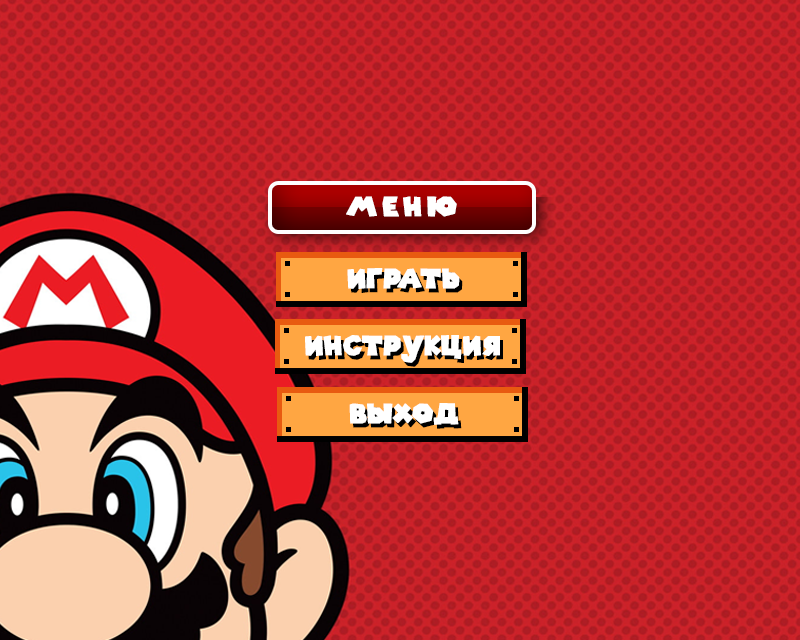
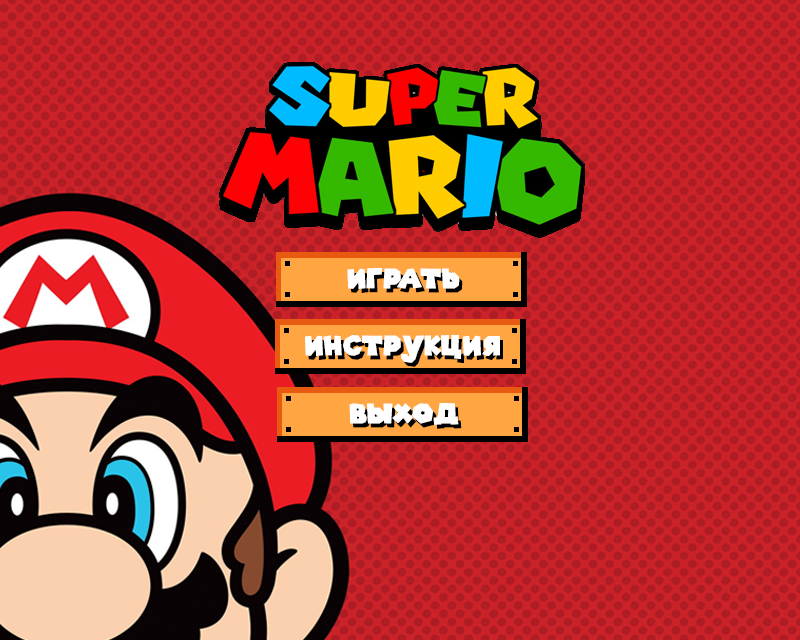
complete all

Changed region(s): [[0.25, 0.0938, 0.75, 0.4062]]

diff --git a/menu.py b/menu.py
@@ -5,6 +5,7 @@ from main_of_pygame_part import main
 WIN_WIDTH = 800  # Ширина создаваемого окна
 WIN_HEIGHT = 640  # Высота
 DISPLAY = (WIN_WIDTH, WIN_HEIGHT)
+pygame.init()  # Инициация PyGame, обязательная строчка
 
 
 
@@ -14,7 +15,7 @@ def menu(need_anim):
     pygame.display.set_caption("Super Mario Boy")  # Название
     bg = pygame.image.load('Design/menu/menu_bg.png')  # Фоновое изображение
 
-    menu_im = pygame.image.load('Design/menu/menu_lbl.png')
+    menu_im = pygame.image.load('Design/menu/logo.png')
 
     start_button = pygame.image.load('Design/menu/start_menu_button.png') # Создание кнопок для меню
     start_button_rect = start_button.get_rect(topleft=(276, 251))
@@ -47,20 +48,86 @@ def menu(need_anim):
 
     if need_anim:
         while True:
-            menu_b_y = 0
-            while menu_b_y != 181:
-                clock.tick(900)
+            menu_b_y = -176
+            while menu_b_y != 62:
+                clock.tick(1500)
                 screen.fill('#cb2229')
-                screen.blit(menu_im, (268, menu_b_y))
+                screen.blit(menu_im, (218, menu_b_y))
+                menu_b_y += 0.5
+                pygame.display.update()
+
+            while menu_b_y != 10:
+                clock.tick(200)
+                screen.fill('#cb2229')
+                screen.blit(menu_im, (218, menu_b_y))
+                menu_b_y -= 1
+                pygame.display.update()
+            while menu_b_y != 62:
+                clock.tick(200)
+                screen.fill('#cb2229')
+                screen.blit(menu_im, (218, menu_b_y))
                 menu_b_y += 1
                 pygame.display.update()
+
+            while menu_b_y != 20:
+                clock.tick(200)
+                screen.fill('#cb2229')
+                screen.blit(menu_im, (218, menu_b_y))
+                menu_b_y -= 1
+                pygame.display.update()
+            while menu_b_y != 62:
+                clock.tick(200)
+                screen.fill('#cb2229')
+                screen.blit(menu_im, (218, menu_b_y))
+                menu_b_y += 1
+                pygame.display.update()
+
+            while menu_b_y != 30:
+                clock.tick(200)
+                screen.fill('#cb2229')
+                screen.blit(menu_im, (218, menu_b_y))
+                menu_b_y -= 1
+                pygame.display.update()
+            while menu_b_y != 62:
+                clock.tick(200)
+                screen.fill('#cb2229')
+                screen.blit(menu_im, (218, menu_b_y))
+                menu_b_y += 1
+                pygame.display.update()
+
+            while menu_b_y != 40:
+                clock.tick(200)
+                screen.fill('#cb2229')
+                screen.blit(menu_im, (218, menu_b_y))
+                menu_b_y -= 1
+                pygame.display.update()
+            while menu_b_y != 62:
+                clock.tick(200)
+                screen.fill('#cb2229')
+                screen.blit(menu_im, (218, menu_b_y))
+                menu_b_y += 1
+                pygame.display.update()
+
+            while menu_b_y != 50:
+                clock.tick(200)
+                screen.fill('#cb2229')
+                screen.blit(menu_im, (218, menu_b_y))
+                menu_b_y -= 1
+                pygame.display.update()
+            while menu_b_y != 62:
+                clock.tick(200)
+                screen.fill('#cb2229')
+                screen.blit(menu_im, (218, menu_b_y))
+                menu_b_y += 1
+                pygame.display.update()
+
 
 
             start_b_x = -251
             while start_b_x != 276:
                 clock.tick(1100)
                 screen.fill('#cb2229')
-                screen.blit(menu_im, (268, 181))
+                screen.blit(menu_im, (218, 62))
                 screen.blit(start_button, (start_b_x, 251))
                 start_b_x += 1
                 pygame.display.update()
@@ -70,7 +137,7 @@ def menu(need_anim):
             while inst_b_x != 276:
                 clock.tick(1100)
                 screen.fill('#cb2229')
-                screen.blit(menu_im, (268, 181))
+                screen.blit(menu_im, (218, 62))
                 screen.blit(start_button, ((276, 251)))
                 screen.blit(instruction_button, (inst_b_x, 319))
                 inst_b_x -= 1
@@ -80,19 +147,20 @@ def menu(need_anim):
             while start_b_x != 276:
                 clock.tick(1100)
                 screen.fill('#cb2229')
-                screen.blit(menu_im, (268, 181))
+                screen.blit(menu_im, (218, 62))
                 screen.blit(start_button, ((276, 251)))
                 screen.blit(instruction_button, ((276, 319)))
-                screen.blit(start_button, (start_b_x, 387))
+                screen.blit(exit_button, (start_b_x, 387))
                 start_b_x += 1
                 pygame.display.update()
             break
 
 
 
+
     while not chose_level and not instructions:
         screen.blit(bg, (0, 0))
-        screen.blit(menu_im, (268, 181))
+        screen.blit(menu_im, (218, 62))
         screen.blit(start_button, start_button_rect)
         screen.blit(instruction_button, instruction_button_rect)
         screen.blit(exit_button, exit_button_rect)
@@ -125,10 +193,13 @@ def menu(need_anim):
             if e.type == pygame.constants.QUIT:
                 raise SystemExit
             if level_1_rect.collidepoint(mouse) and e.type == pygame.MOUSEBUTTONDOWN:
-                main(1)
+                if main(1) == 2:
+                    if main(2) == 2:
+                        main(3)
 
             if level_2_rect.collidepoint(mouse) and e.type == pygame.MOUSEBUTTONDOWN:
-                main(2)
+                if main(2) == 2:
+                    main(3)
             if level_3_rect.collidepoint(mouse) and e.type == pygame.MOUSEBUTTONDOWN:
                 main(3)
 

diff --git a/main_of_pygame_part.py b/main_of_pygame_part.py
@@ -14,6 +14,7 @@ WIN_HEIGHT = 640  # Высота
 DISPLAY = (WIN_WIDTH, WIN_HEIGHT)  # Группируем ширину и высоту в одну переменную
 
 FILE_DIR = os.path.dirname(__file__)
+pygame.init()  # Инициация PyGame, обязательная строчка
 
 
 class Camera(object):
@@ -92,19 +93,24 @@ def main(num):
     pygame.mixer.music.load("saundtrack.mp3")
     pygame.mixer.music.play(-1)
 
-    button = pygame.image.load('Design/pause\pause.png')
+    button = pygame.image.load('Design/pause/pause.png')
     button_rect = button.get_rect(topright=(800, 0))
 
     left = right = False  # по умолчанию - стоим
     up = False
     running = False
 
-    label = pygame.font.Font('font.otf', 40)
+
+    win_m_label = pygame.image.load('Design/result/victory/win_w_go_to_menu.png')
+    go_to_menu_button = pygame.image.load('Design/result/victory/go_to_menu_button.png')
+    go_to_menu_button_rect = go_to_menu_button.get_rect(topleft=(329, 506))
+
+    win_nl_label = pygame.image.load('Design/result/victory/win_w_go_to_nextlvl.png')
+    go_to_nextlvl_button = pygame.image.load('Design/result/victory/next_lvl_button.png')
+    go_to_nextlvl_button_rect = go_to_nextlvl_button.get_rect(topleft=(143, 499))
 
 
-
-    win_label = pygame.image.load('Design/result/victory.png')
-    loose_label = pygame.image.load('Design/result/loose_img.png')
+    loose_label = pygame.image.load('Design/result/loose/loose_img.png')
 
     continue_button = pygame.image.load('Design/pause/continue.png')
     continue_button_rect = continue_button.get_rect(topleft=(296, 255))
@@ -112,12 +118,9 @@ def main(num):
     go_back = pygame.image.load('Design/pause/go_back.png')
     go_back_rect = go_back.get_rect(topleft=(296, 322))
 
-    go_back_button = label.render('Меню', False, (255, 255, 255))
-    go_back_button_rect = go_back_button.get_rect(topleft=(330, 400))
-
     pause_im = pygame.image.load('Design/pause/pause_menu_bg.png')
 
-    restart_label = pygame.image.load('Design/result/restart_button.png')
+    restart_label = pygame.image.load('Design/result/loose/restart_button.png')
     restart_label_rect = restart_label.get_rect(topleft=(222, 520))
 
     hero = Player(playerX, playerY)  # создаем героя по (x,y) координатам
@@ -231,11 +234,26 @@ def main(num):
                     if e.type == QUIT:
                         raise SystemExit
         else:
-            pygame.mixer.music.pause()
-            screen.blit(win_label, (0, 0))
-            for e in pygame.event.get():  # Обрабатываем события
-                if e.type == QUIT:
-                    raise SystemExit
+            if num == 3:
+                pygame.mixer.music.pause()
+                screen.blit(win_m_label, (0, 0))
+                screen.blit(go_to_menu_button, go_to_menu_button_rect)
+                mouse = pygame.mouse.get_pos()
+                for e in pygame.event.get():  # Обрабатываем события
+                    if e.type == QUIT:
+                        raise SystemExit
+                    if e.type == MOUSEBUTTONDOWN and go_to_menu_button_rect.collidepoint(mouse):
+                        return 1
+            else:
+                pygame.mixer.music.pause()
+                screen.blit(win_nl_label, (0, 0))
+                screen.blit(go_to_nextlvl_button, go_to_nextlvl_button_rect)
+                mouse = pygame.mouse.get_pos()
+                for e in pygame.event.get():  # Обрабатываем события
+                    if e.type == QUIT:
+                        raise SystemExit
+                    if e.type == MOUSEBUTTONDOWN and go_to_nextlvl_button_rect.collidepoint(mouse):
+                        return 2
 
         pygame.display.update()
 
